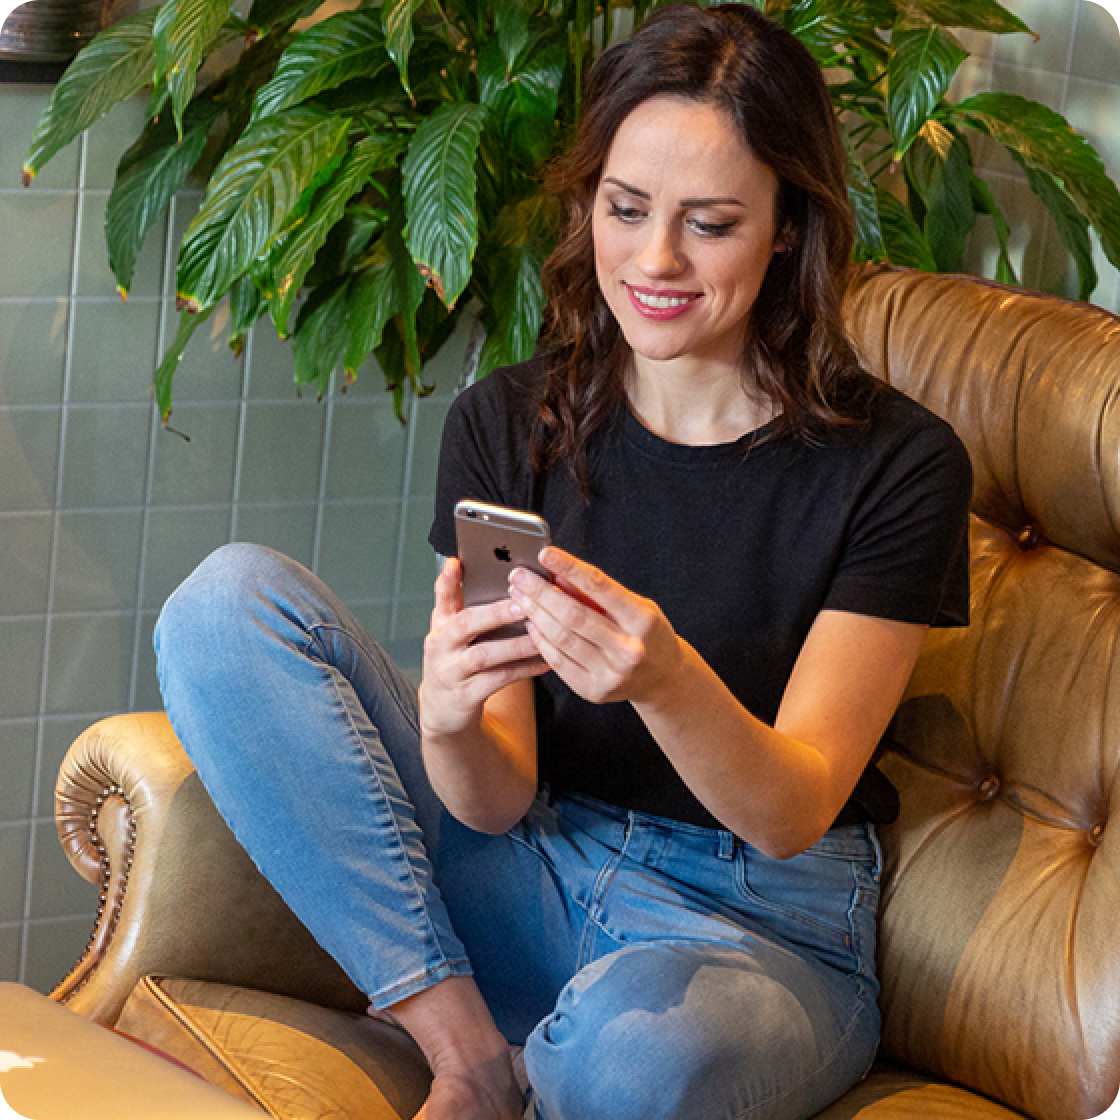
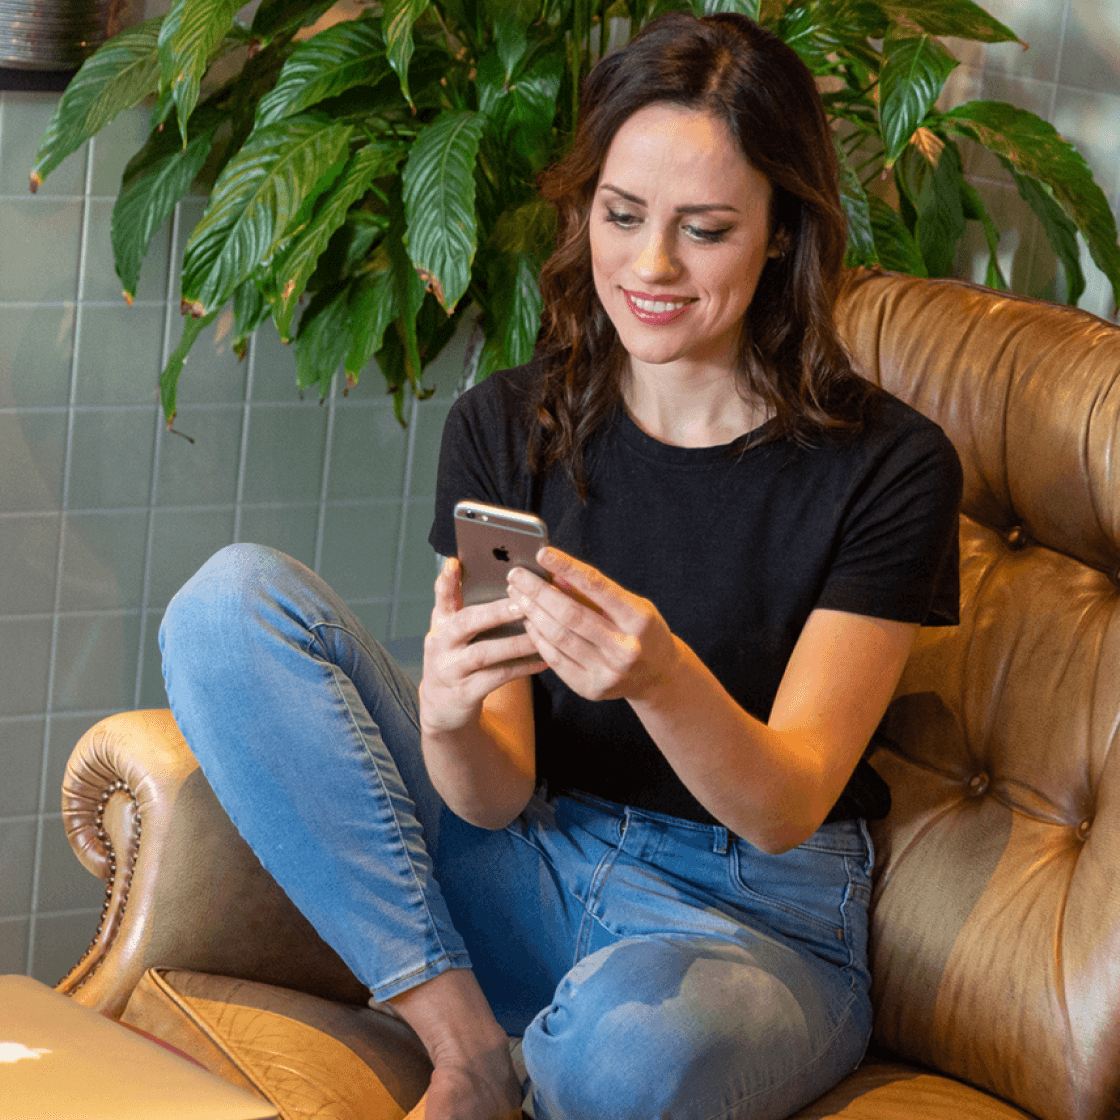
Finetune styling

diff --git a/css/style.css b/css/style.css
@@ -120,8 +120,11 @@ nav li.active a {
   padding: 35px 40px 0 20px;
 }
 .content-container {
-  padding: 15px 20px;
+  padding: 60px 20px;
 }
+/* .content-container.narrower {
+  padding: 60px;
+} */
 .content {
   /* margin: 10px 0; */
   margin: 30px;
@@ -143,14 +146,6 @@ nav li.active a {
 .content p {
   font-size: 16px;
 }
-/* .content img {
-  width: 560px;
-} */
-/* .work-h1 {
-  max-width: 800px;
-  text-align: left;
-  margin-left: 20px;
-} */
 .social-icons a {
   margin: 0 10px;
   background-color: var(--branding-color);
@@ -165,6 +160,9 @@ nav li.active a {
 }
 .credits {
   font-size: 12px;
+}
+.fa-envelope {
+  margin-right: 5px;
 }
 footer .email-link {
   text-decoration: none;

diff --git a/pages/about.html b/pages/about.html
@@ -85,7 +85,7 @@
         <div class="col-lg-6">
           <div class="content">
             <h1 class="mb-4">Hi, I’m Sanne Peters</h1>
-            <h2 class="mb-4">Passionate designer based in Berlin</h2>
+            <h2 class="mb-4">Passionate web & graphic designer based in Berlin</h2>
             <p class="mb-5">
               I’m a puppy-loving, design and coding enthusiast from the Netherlands, recently moved to Berlin. While venturing out on my own in the past couple of years, I have helped guide my clients through their business journey, with a full-service approach for any branding, design and technical requests. 
             </p>

diff --git a/pages/contact.html b/pages/contact.html
@@ -87,7 +87,7 @@
         <div class="col-lg-6">
           <img
             src="/images/contact-sanne.png"
-            class="img-fluid d-none d-lg-block"
+            class="img-fluid d-none d-lg-block rounded"
             alt="Contact Sanne Peters"
             title="Contact Sanne Peters"
           />

diff --git a/pages/work.html b/pages/work.html
@@ -85,7 +85,6 @@
     <div class="content-container container">
       <div class="content">
         <h1 class="mb-5">Have a look at what I've been working on!</h1>
-
         <div class="row">
           <div class="col-md-6 mb-4">
             <a href="https://www.sannepeters.com" target="_blank"
